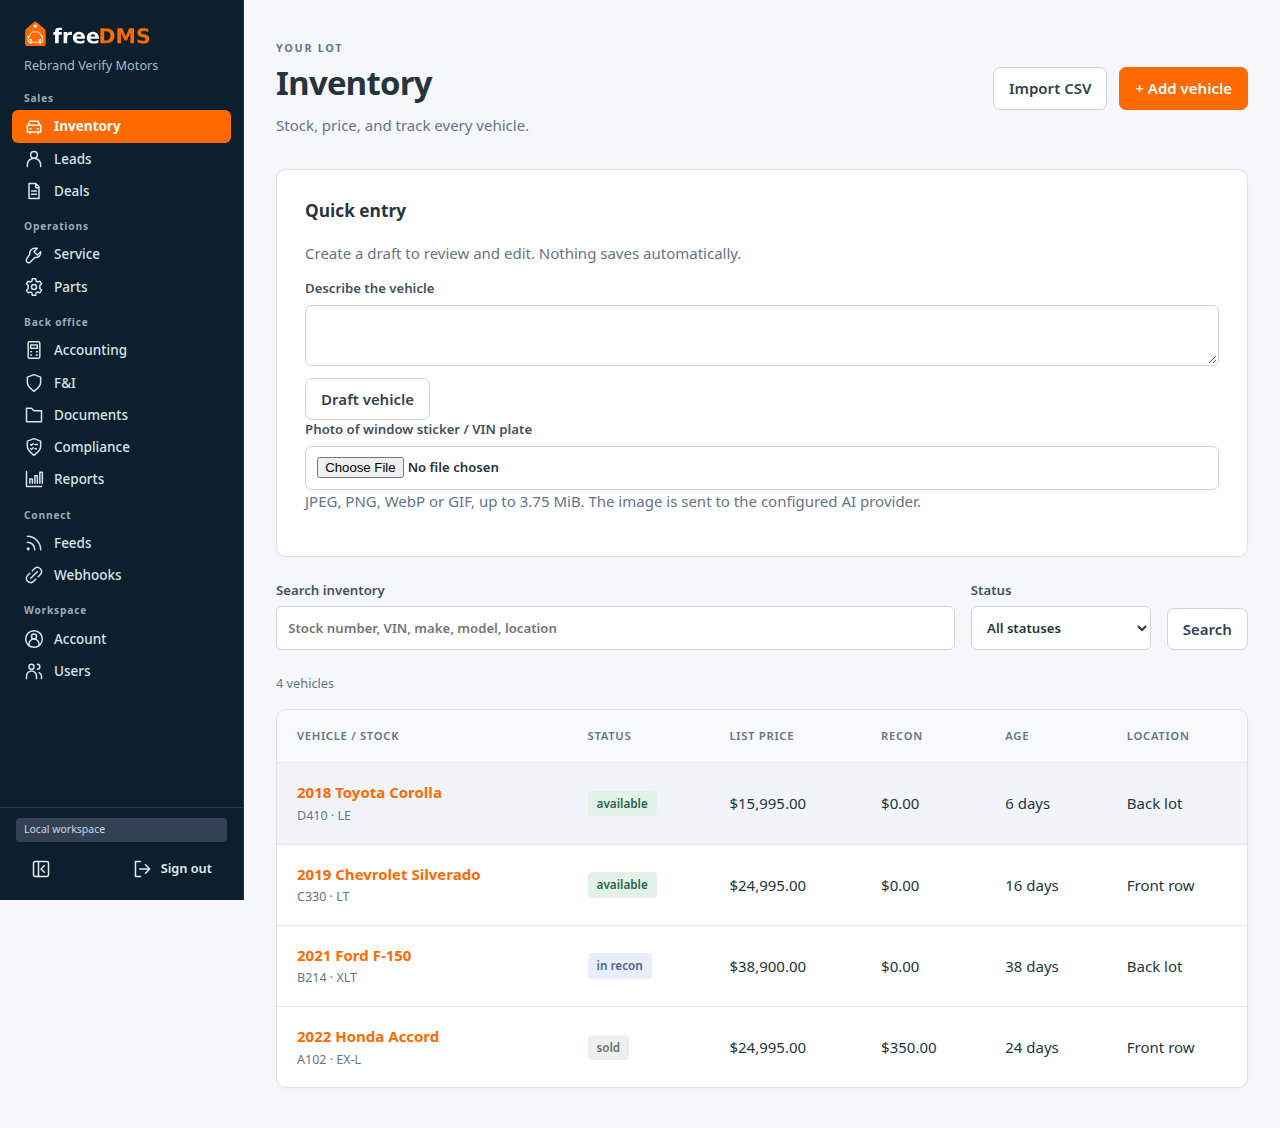
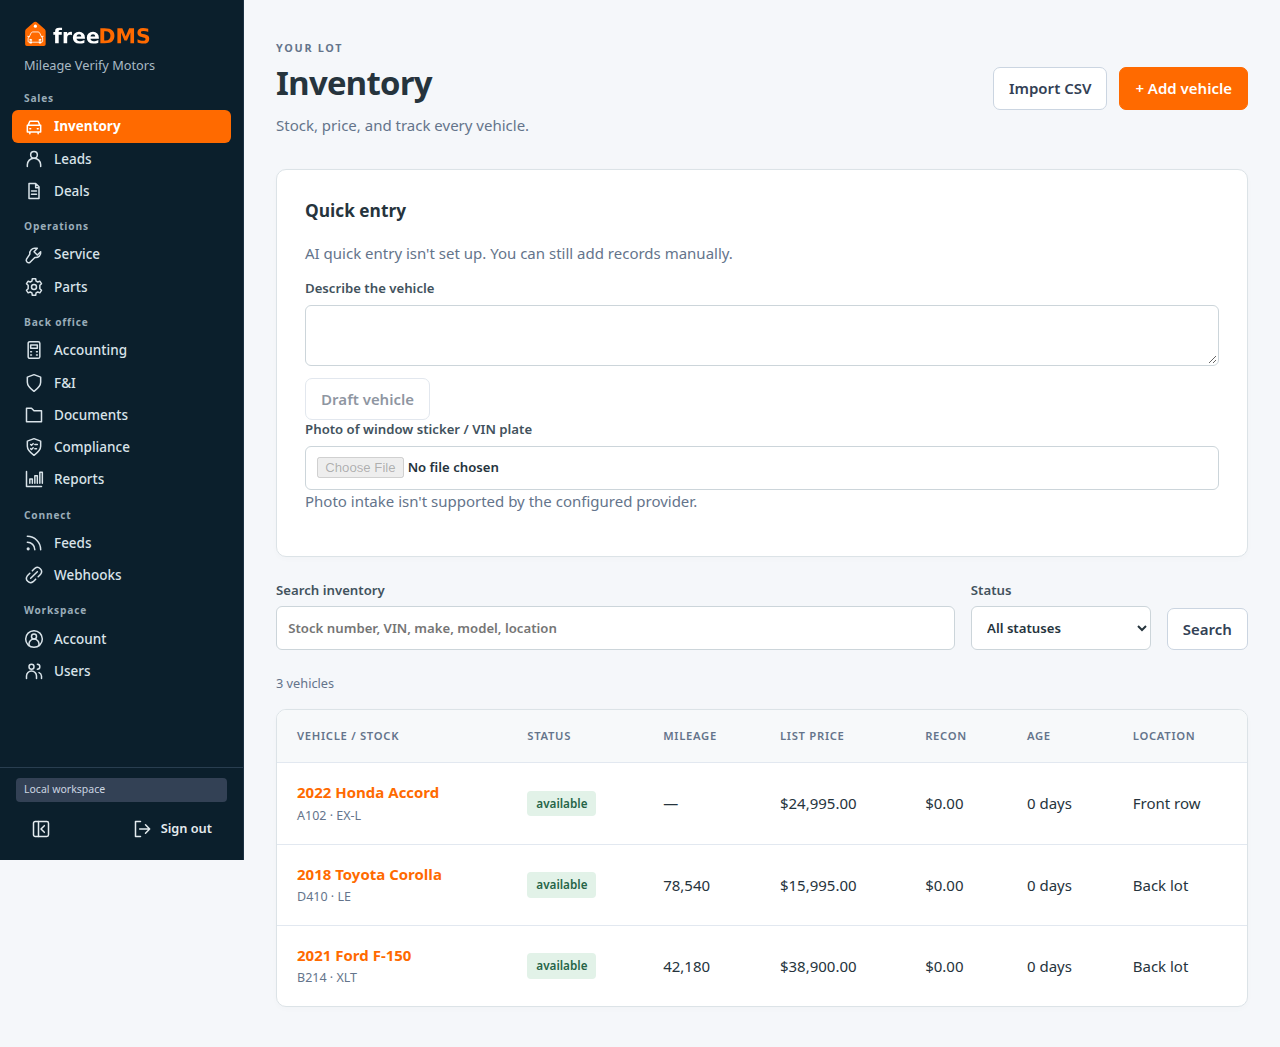
Refresh inventory screenshot and caption for #44 mileage column

diff --git a/README.md b/README.md
@@ -75,7 +75,7 @@ invites. Nothing is created until Finish; the workspace starts empty.
 
 ![Invite welcome](docs/screenshots/invite-welcome.png)
 
-**Inventory** — every vehicle with aging, cost, and status.
+**Inventory** — every vehicle with mileage, aging, cost, and status.
 
 ![Inventory list](docs/screenshots/inventory-list.png)
 
